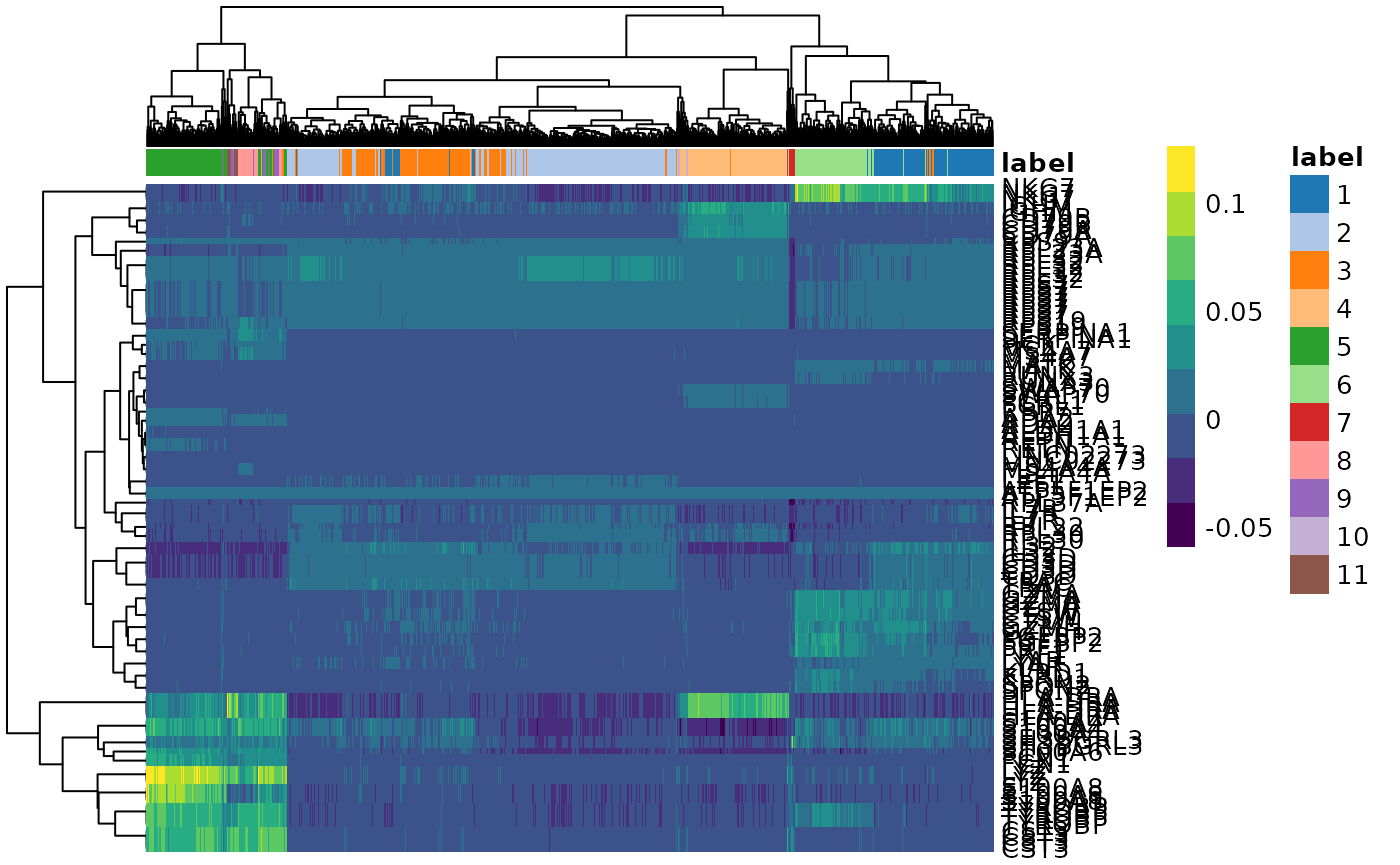
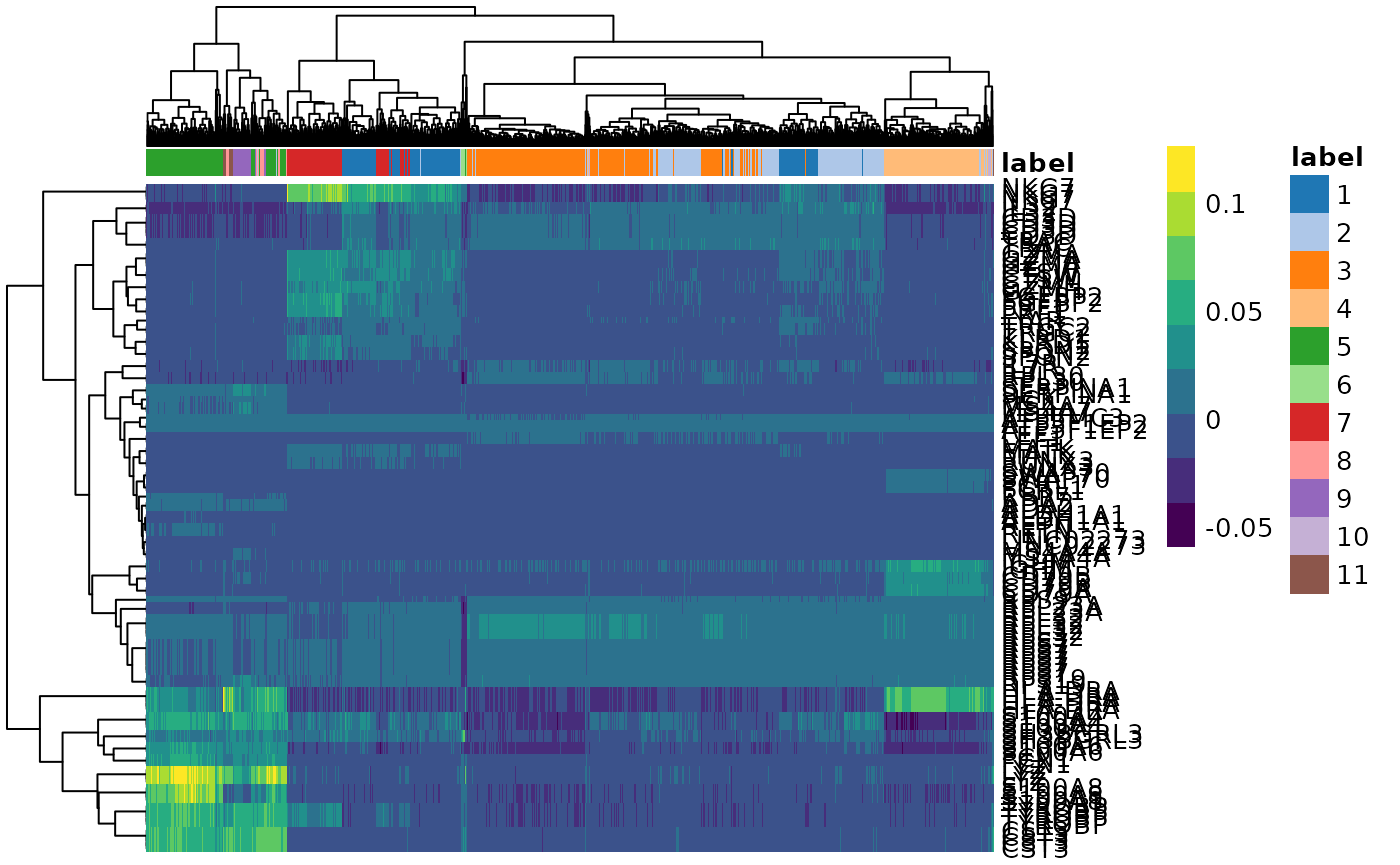
Deploying to gh-pages from  @ 9cf22ec2eabf093805993c49749e26044fe42c30 🚀

diff --git a/articles/tidytranscriptomics.html b/articles/tidytranscriptomics.html
@@ -990,7 +990,6 @@
 <h3 class="hasAnchor">
 <a href="#nesting" class="anchor"></a>Nesting</h3>
 <p>A powerful tool tidySingleCellExperiment enables us to use with our single-cell data is tidyverse’s <a href="https://rstudio-education.github.io/tidyverse-cookbook/transform-tables.html#nest-a-data-frame">nest</a>. Nesting allows us to easily perform independent analyses on subsets of the data. For example, our data contains 10 single-cell datasets from different sources, we can nest by dataset and analyse the mitochondrial content for each.</p>
-<p><img src="../inst/vignettes/nesting.png" width="600px"></p>
 <p>To demonstrate the power of nesting we’ll first show the mitochondrial analysis for one of the 10 datasets.</p>
 <div class="sourceCode" id="cb38"><pre class="downlit sourceCode r">
 <code class="sourceCode R"><span class="va">one_dataset</span> <span class="op">&lt;-</span> <span class="va">pbmc</span> <span class="op">%&gt;%</span> <span class="fu"><a href="https://rdrr.io/pkg/tidySingleCellExperiment/man/dplyr-methods.html">filter</a></span><span class="op">(</span><span class="va">dataset</span> <span class="op">==</span><span class="st">"GSE115189"</span><span class="op">)</span></code></pre></div>
@@ -1083,6 +1082,7 @@
 <span class="co">#&gt; #   subsets_Mito_detected &lt;int&gt;, subsets_Mito_percent &lt;dbl&gt;, total &lt;dbl&gt;,</span>
 <span class="co">#&gt; #   high_mitochondrion &lt;otlr.flt&gt;</span></code></pre></div>
 <p>The steps above perform the mitochondrial QC analysis for one dataset. To analyse all 10 datasets we could repeat the steps for each dataset or create a function and apply it to each dataset. However, a more efficient way is to use nesting. We can nest our data by dataset.</p>
+<p><img src="../inst/vignettes/nesting.png" width="600px"></p>
 <div class="sourceCode" id="cb43"><pre class="downlit sourceCode r">
 <code class="sourceCode R"><span class="va">pbmc_nested</span> <span class="op">&lt;-</span> <span class="va">pbmc</span> <span class="op">%&gt;%</span> 
     <span class="fu"><a href="https://rdrr.io/pkg/tidySingleCellExperiment/man/tidyr-methods.html">nest</a></span><span class="op">(</span>data <span class="op">=</span> <span class="op">-</span><span class="va">dataset</span><span class="op">)</span>
@@ -1259,16 +1259,16 @@
 <span class="co">#&gt; [90m# Transcripts=51958 | Assays=reconstructed[39m</span>
 <span class="co">#&gt;    cell       label batch corrected1 corrected2 corrected3 corrected4 corrected5</span>
 <span class="co">#&gt;    &lt;chr&gt;      &lt;fct&gt; &lt;int&gt;      &lt;dbl&gt;      &lt;dbl&gt;      &lt;dbl&gt;      &lt;dbl&gt;      &lt;dbl&gt;</span>
-<span class="co">#&gt;  1 CCAGTCACA… 5         1    0.0644      0.334      0.0725    -0.0560    0.0739 </span>
-<span class="co">#&gt;  2 ATGAGCACA… 2         1    0.178      -0.0167     0.122     -0.122    -0.0233 </span>
-<span class="co">#&gt;  3 TATGAATGG… 6         1    0.0604      0.0357    -0.127     -0.293    -0.0128 </span>
-<span class="co">#&gt;  4 CATATAGAC… 11        1    0.0760      0.282      0.121     -0.0546    0.00284</span>
-<span class="co">#&gt;  5 GAGGCAGAC… 1         1    0.0758      0.0424    -0.0977    -0.259    -0.0248 </span>
-<span class="co">#&gt;  6 AGCTGCCTT… 3         1    0.117       0.0242     0.0729    -0.159    -0.0170 </span>
-<span class="co">#&gt;  7 TGATTAGAT… 4         1    0.146       0.0752     0.143     -0.0488   -0.0916 </span>
-<span class="co">#&gt;  8 ACGAAGCTC… 4         1    0.119       0.108      0.127     -0.0505   -0.0624 </span>
-<span class="co">#&gt;  9 CGGCATCTT… 5         1    0.00946     0.407      0.0466    -0.0803    0.0522 </span>
-<span class="co">#&gt; 10 ATAGCGTGC… 5         1    0.0561      0.367      0.105     -0.0589    0.0609 </span>
+<span class="co">#&gt;  1 CCAGTCACA… 5         1   -0.0644      0.334      0.0725     0.0560   -0.0739 </span>
+<span class="co">#&gt;  2 ATGAGCACA… 3         1   -0.178      -0.0166     0.122      0.122     0.0233 </span>
+<span class="co">#&gt;  3 TATGAATGG… 7         1   -0.0602      0.0356    -0.127      0.293     0.0128 </span>
+<span class="co">#&gt;  4 CATATAGAC… 11        1   -0.0761      0.282      0.121      0.0546   -0.00284</span>
+<span class="co">#&gt;  5 GAGGCAGAC… 1         1   -0.0756      0.0423    -0.0977     0.259     0.0248 </span>
+<span class="co">#&gt;  6 AGCTGCCTT… 2         1   -0.117       0.0242     0.0729     0.159     0.0170 </span>
+<span class="co">#&gt;  7 TGATTAGAT… 4         1   -0.146       0.0752     0.143      0.0488    0.0915 </span>
+<span class="co">#&gt;  8 ACGAAGCTC… 4         1   -0.119       0.108      0.127      0.0505    0.0624 </span>
+<span class="co">#&gt;  9 CGGCATCTT… 5         1   -0.00946     0.407      0.0466     0.0803   -0.0522 </span>
+<span class="co">#&gt; 10 ATAGCGTGC… 5         1   -0.0562      0.367      0.105      0.0590   -0.0609 </span>
 <span class="co">#&gt; # … with 2,889 more rows</span></code></pre></div>
 <p>Thanks to tidySingleCellExperiment we can interrogate the object with tidyverse commands and use <code>count</code> to count the number of cells in each cluster.</p>
 <div class="sourceCode" id="cb51"><pre class="downlit sourceCode r">
@@ -1277,15 +1277,15 @@
 <span class="co">#&gt; # A tibble: 11 x 2</span>
 <span class="co">#&gt;    label     n</span>
 <span class="co">#&gt;    &lt;fct&gt; &lt;int&gt;</span>
-<span class="co">#&gt;  1 1       462</span>
-<span class="co">#&gt;  2 2       794</span>
-<span class="co">#&gt;  3 3       503</span>
-<span class="co">#&gt;  4 4       351</span>
+<span class="co">#&gt;  1 1       479</span>
+<span class="co">#&gt;  2 2       564</span>
+<span class="co">#&gt;  3 3       735</span>
+<span class="co">#&gt;  4 4       350</span>
 <span class="co">#&gt;  5 5       339</span>
-<span class="co">#&gt;  6 6       274</span>
-<span class="co">#&gt;  7 7        21</span>
-<span class="co">#&gt;  8 8        74</span>
-<span class="co">#&gt;  9 9        41</span>
+<span class="co">#&gt;  6 6        21</span>
+<span class="co">#&gt;  7 7       256</span>
+<span class="co">#&gt;  8 8        41</span>
+<span class="co">#&gt;  9 9        74</span>
 <span class="co">#&gt; 10 10       14</span>
 <span class="co">#&gt; 11 11       26</span></code></pre></div>
 </div>
@@ -1372,14 +1372,14 @@
 <span class="co">#&gt;    label first.labels   </span>
 <span class="co">#&gt;    &lt;chr&gt; &lt;chr&gt;          </span>
 <span class="co">#&gt;  1 1     NK cells       </span>
-<span class="co">#&gt;  2 2     Skeletal muscle</span>
-<span class="co">#&gt;  3 3     Fibroblasts    </span>
+<span class="co">#&gt;  2 2     Fibroblasts    </span>
+<span class="co">#&gt;  3 3     Skeletal muscle</span>
 <span class="co">#&gt;  4 4     B-cells        </span>
 <span class="co">#&gt;  5 5     Monocytes      </span>
-<span class="co">#&gt;  6 6     NK cells       </span>
-<span class="co">#&gt;  7 7     Smooth muscle  </span>
-<span class="co">#&gt;  8 8     Neutrophils    </span>
-<span class="co">#&gt;  9 9     Macrophages    </span>
+<span class="co">#&gt;  6 6     Smooth muscle  </span>
+<span class="co">#&gt;  7 7     NK cells       </span>
+<span class="co">#&gt;  8 8     Macrophages    </span>
+<span class="co">#&gt;  9 9     Neutrophils    </span>
 <span class="co">#&gt; 10 10    B-cells        </span>
 <span class="co">#&gt; 11 11    Monocytes</span></code></pre></div>
 <p>We join the cell type information to our pbmc data.</p>
@@ -1395,16 +1395,16 @@
 <span class="co">#&gt; [90m# Transcripts=51958 | Assays=reconstructed[39m</span>
 <span class="co">#&gt;    cell  first.labels batch label corrected1 corrected2 corrected3 corrected4</span>
 <span class="co">#&gt;    &lt;chr&gt; &lt;chr&gt;        &lt;int&gt; &lt;chr&gt;      &lt;dbl&gt;      &lt;dbl&gt;      &lt;dbl&gt;      &lt;dbl&gt;</span>
-<span class="co">#&gt;  1 CCAG… Monocytes        1 5        0.0644      0.334      0.0725    -0.0560</span>
-<span class="co">#&gt;  2 ATGA… Skeletal mu…     1 2        0.178      -0.0167     0.122     -0.122 </span>
-<span class="co">#&gt;  3 TATG… NK cells         1 6        0.0604      0.0357    -0.127     -0.293 </span>
-<span class="co">#&gt;  4 CATA… Monocytes        1 11       0.0760      0.282      0.121     -0.0546</span>
-<span class="co">#&gt;  5 GAGG… NK cells         1 1        0.0758      0.0424    -0.0977    -0.259 </span>
-<span class="co">#&gt;  6 AGCT… Fibroblasts      1 3        0.117       0.0242     0.0729    -0.159 </span>
-<span class="co">#&gt;  7 TGAT… B-cells          1 4        0.146       0.0752     0.143     -0.0488</span>
-<span class="co">#&gt;  8 ACGA… B-cells          1 4        0.119       0.108      0.127     -0.0505</span>
-<span class="co">#&gt;  9 CGGC… Monocytes        1 5        0.00946     0.407      0.0466    -0.0803</span>
-<span class="co">#&gt; 10 ATAG… Monocytes        1 5        0.0561      0.367      0.105     -0.0589</span>
+<span class="co">#&gt;  1 CCAG… Monocytes        1 5       -0.0644      0.334      0.0725     0.0560</span>
+<span class="co">#&gt;  2 ATGA… Skeletal mu…     1 3       -0.178      -0.0166     0.122      0.122 </span>
+<span class="co">#&gt;  3 TATG… NK cells         1 7       -0.0602      0.0356    -0.127      0.293 </span>
+<span class="co">#&gt;  4 CATA… Monocytes        1 11      -0.0761      0.282      0.121      0.0546</span>
+<span class="co">#&gt;  5 GAGG… NK cells         1 1       -0.0756      0.0423    -0.0977     0.259 </span>
+<span class="co">#&gt;  6 AGCT… Fibroblasts      1 2       -0.117       0.0242     0.0729     0.159 </span>
+<span class="co">#&gt;  7 TGAT… B-cells          1 4       -0.146       0.0752     0.143      0.0488</span>
+<span class="co">#&gt;  8 ACGA… B-cells          1 4       -0.119       0.108      0.127      0.0505</span>
+<span class="co">#&gt;  9 CGGC… Monocytes        1 5       -0.00946     0.407      0.0466     0.0803</span>
+<span class="co">#&gt; 10 ATAG… Monocytes        1 5       -0.0562      0.367      0.105      0.0590</span>
 <span class="co">#&gt; # … with 2,889 more rows, and 4 more variables: corrected5 &lt;dbl&gt;, UMAP1 &lt;dbl&gt;,</span>
 <span class="co">#&gt; #   UMAP2 &lt;dbl&gt;, UMAP3 &lt;dbl&gt;</span></code></pre></div>
 <p>We can easily summarise the results. For example, we can see how cell type classification overlaps with cluster classification.</p>
@@ -1414,17 +1414,17 @@
 <span class="co">#&gt; # A tibble: 11 x 3</span>
 <span class="co">#&gt;    label first.labels        n</span>
 <span class="co">#&gt;    &lt;chr&gt; &lt;chr&gt;           &lt;int&gt;</span>
-<span class="co">#&gt;  1 1     NK cells          462</span>
+<span class="co">#&gt;  1 1     NK cells          479</span>
 <span class="co">#&gt;  2 10    B-cells            14</span>
 <span class="co">#&gt;  3 11    Monocytes          26</span>
-<span class="co">#&gt;  4 2     Skeletal muscle   794</span>
-<span class="co">#&gt;  5 3     Fibroblasts       503</span>
-<span class="co">#&gt;  6 4     B-cells           351</span>
+<span class="co">#&gt;  4 2     Fibroblasts       564</span>
+<span class="co">#&gt;  5 3     Skeletal muscle   735</span>
+<span class="co">#&gt;  6 4     B-cells           350</span>
 <span class="co">#&gt;  7 5     Monocytes         339</span>
-<span class="co">#&gt;  8 6     NK cells          274</span>
-<span class="co">#&gt;  9 7     Smooth muscle      21</span>
-<span class="co">#&gt; 10 8     Neutrophils        74</span>
-<span class="co">#&gt; 11 9     Macrophages        41</span></code></pre></div>
+<span class="co">#&gt;  8 6     Smooth muscle      21</span>
+<span class="co">#&gt;  9 7     NK cells          256</span>
+<span class="co">#&gt; 10 8     Macrophages        41</span>
+<span class="co">#&gt; 11 9     Neutrophils        74</span></code></pre></div>
 </div>
 </div>
 <div id="pseudobulk-analyses" class="section level2">
